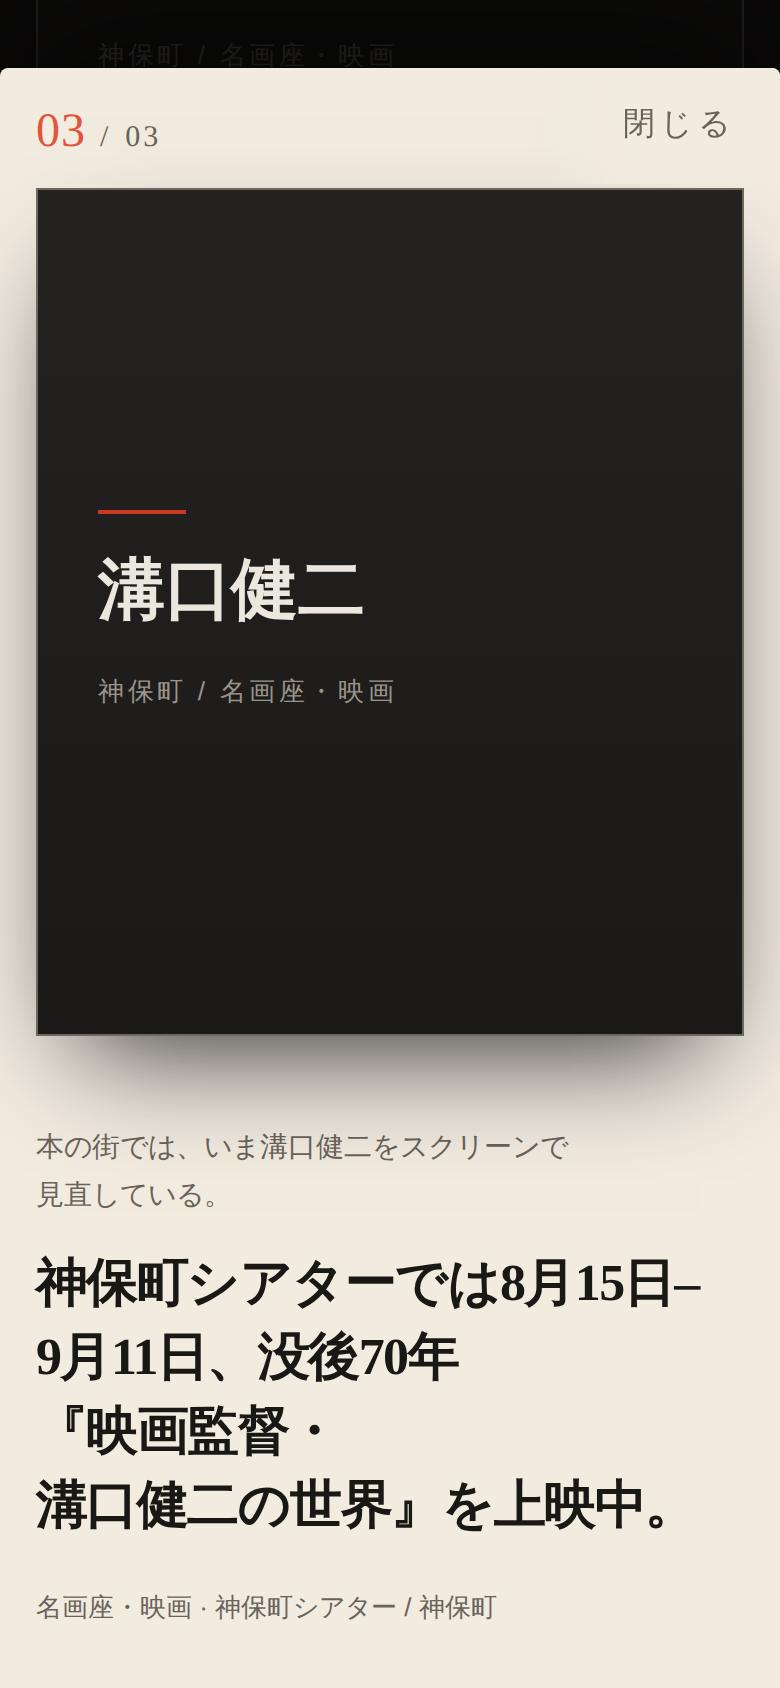
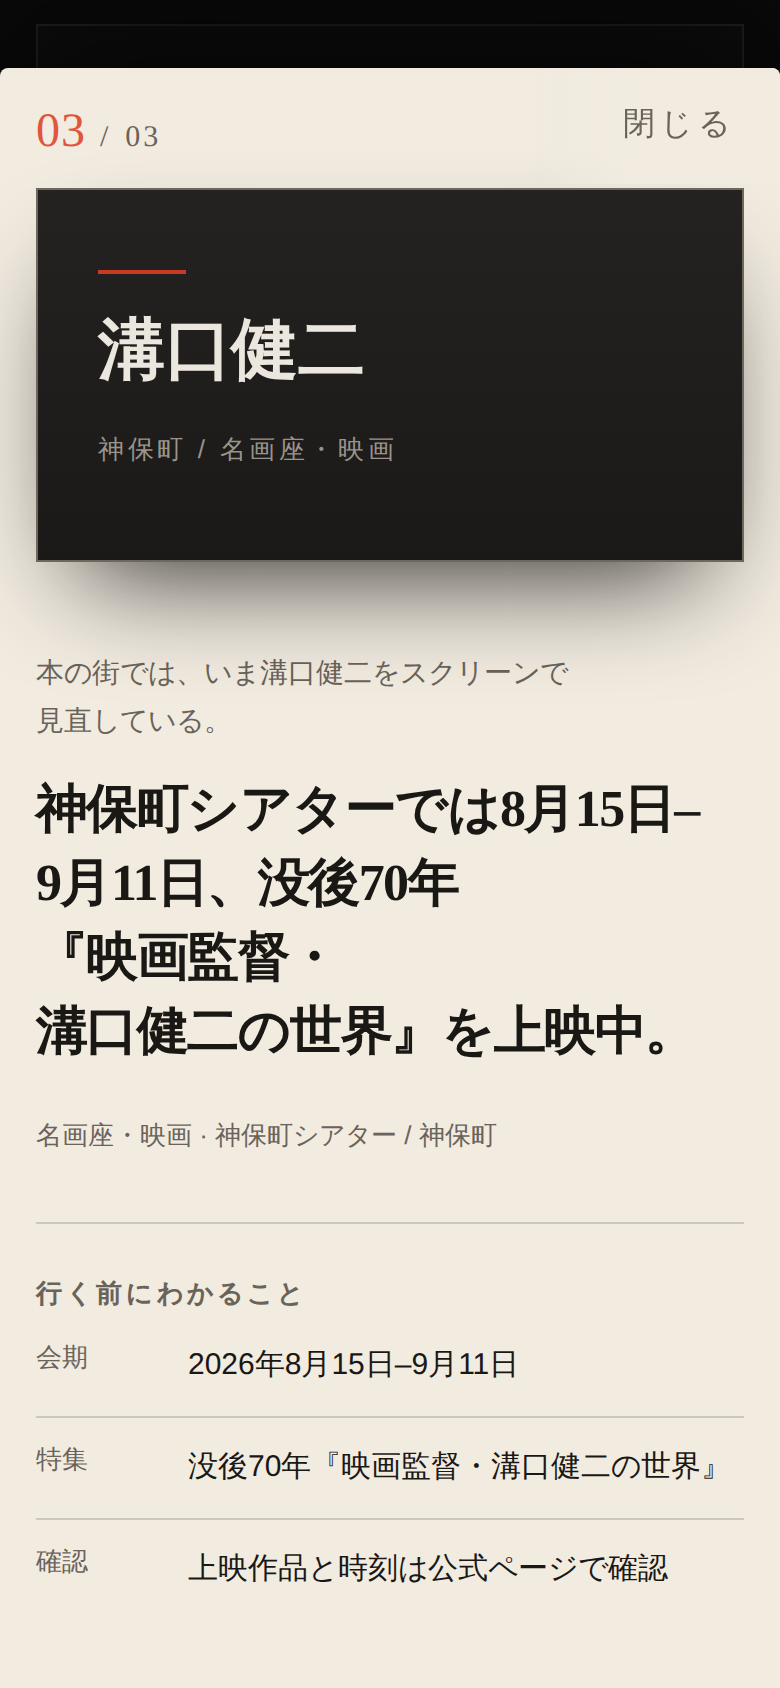
fix(release-01): 活字図版の高さを内容で決める
Founder の iPhone 実機で、活字図版が中身の約2.5倍の高さの空箱に見え、
「画像が読み込めていない」と誤読される状態だった。1440 では同じ棚の中で
1枚目だけ 532px、他が 520px と行が揃わなかった。

原因は高さの決め方が2系統あったこと。写真は img の実寸（--plate-h）で
決まるのに、活字図版だけ frame 側の aspect-ratio で決まっていたため、
中身と無関係な余白が残り、列幅が変わると図版だけ背が伸びた。

.media-plate の aspect-ratio と .plate-inner の height:100% を外し、
活字と余白（padding 40/30/44）で高さを決めるようにした。

実測（320/390/430/1440/390@200%）:
- 文字が占める高さ 54-68%（従来は約40%）
- 1440 で同じ棚の3枚が 520/520/520 に一致
- 全幅で横スクロール 0

release_check.js GO / browser_qa.js 560/560。
写真棚（東京）のスクリーンショットは byte 不変で、変わったのは
活字図版を含む6枚のみ。

保存・製本・本棚・GA4・外部通信への影響なし。

Claude-Session: https://claude.ai/code/session_018poV34fXL7Au8c8NUFyCym

diff --git a/v3-prototype/release-01/release.css b/v3-prototype/release-01/release.css
@@ -230,15 +230,17 @@ button:focus-visible, a:focus-visible, .object-card:has(:focus-visible) {
 /* 実写を持たない対象のための活字図版。写真のふりをさせない。
    V3 が組んだ版面だと見て分かるように、罫と余白で図録の扉に寄せる。
    既存の表紙・ポスター・スチル・チラシは一切使わない。 */
-.media-plate { aspect-ratio: var(--plate-ratio, 4 / 5); }
+/* 高さは縦横比では決めない。写真は img の実寸で決まるので、図版を縦横比で
+   引き伸ばすと、中身と無関係な空白が残って「読み込めていない箱」に見える。
+   1440 では列幅に比例して1枚目だけ背が伸び、棚の行も揃わなくなる。
+   図版は活字なのだから、活字と余白で高さを決める。 */
 .media-plate .plate-inner {
   width: 100%;
-  height: 100%;
   display: grid;
   align-content: center;
   justify-items: start;
   gap: 18px;
-  padding: 34px 30px;
+  padding: 40px 30px 44px;
   background:
     linear-gradient(180deg, rgba(241, 235, 224, .07), rgba(241, 235, 224, .03)),
     var(--hall);
